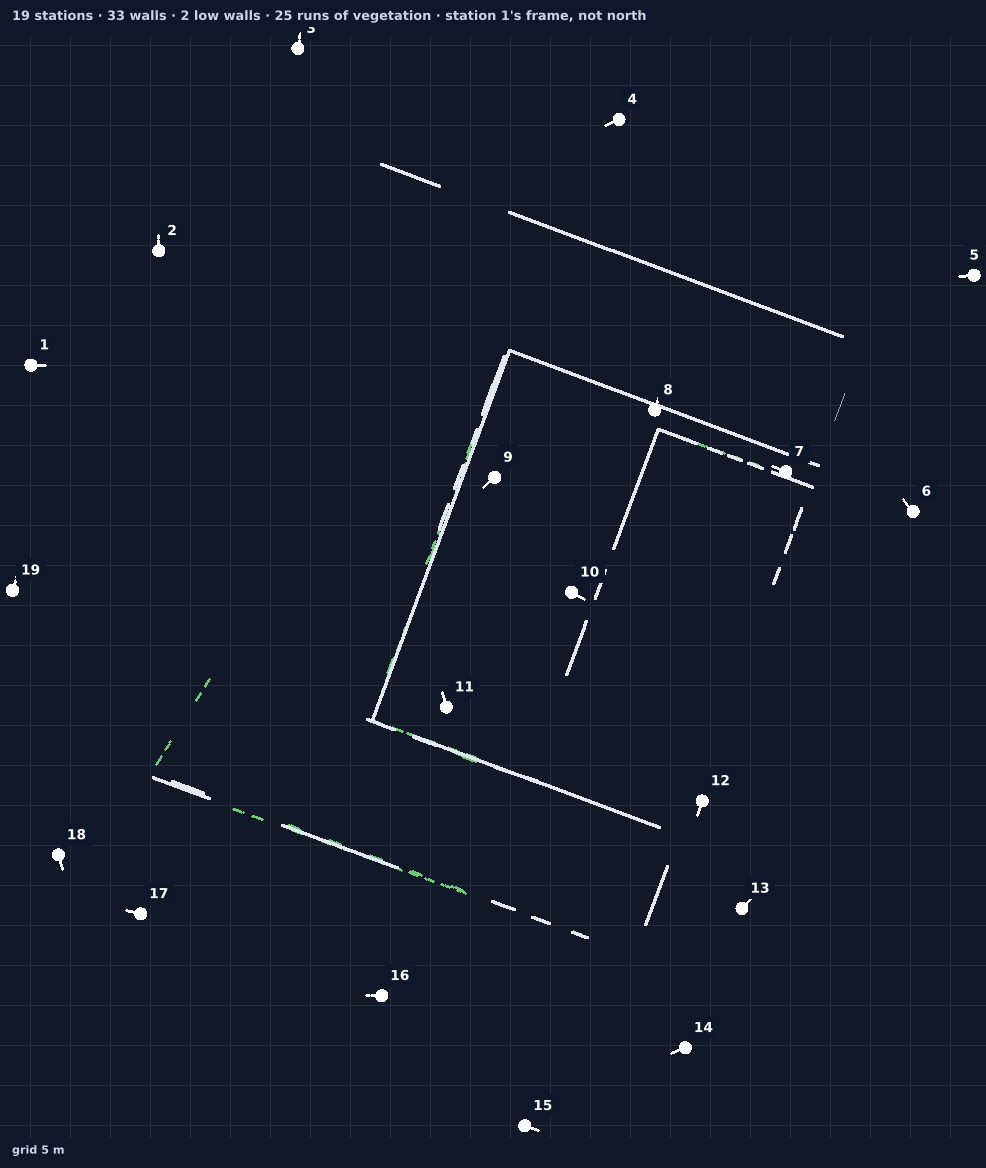
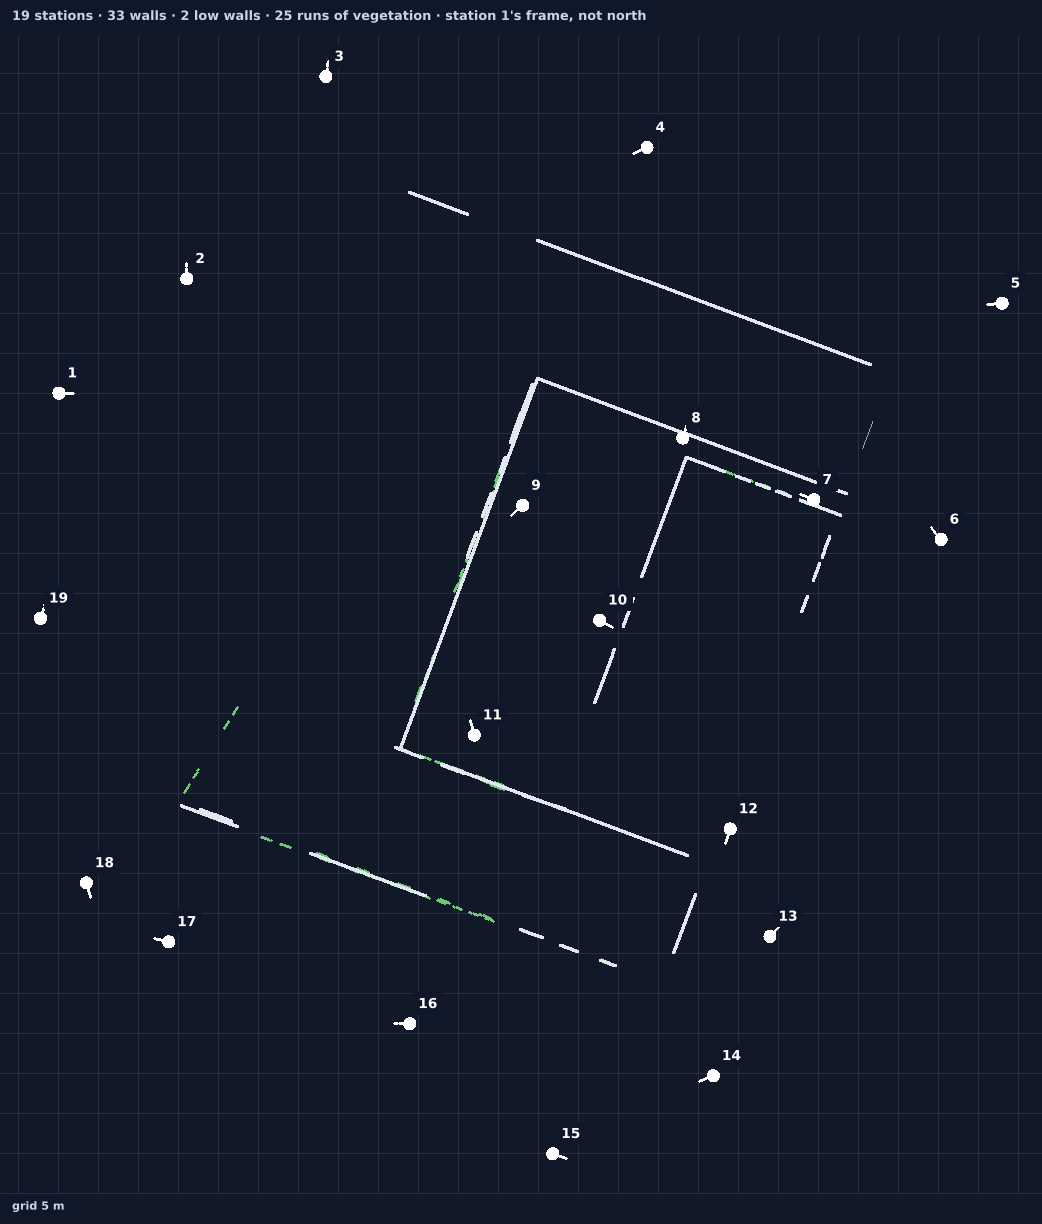
Minimap: keep station numbers inside the picture on large sites (0.12.2)
The margin around the drawing was a fixed 1.5 m. On a large site
(about 7 px/m) that is a dozen pixels, while a station number is drawn
28 px above its dot, so a station on the top edge lost its number. The
margin is now at least 40 px at any scale. New test:
labels_stay_inside_on_a_large_site (fails on the old layout).

The admin building minimap in docs/img is redrawn with the fix.

diff --git a/crates/x9-bridge/src/minimap.rs b/crates/x9-bridge/src/minimap.rs
@@ -102,9 +102,13 @@ impl Minimap {
         if pts.is_empty() {
             (x0, y0, x1, y1) = (-5.0, -5.0, 5.0, 5.0);
         }
-        let pad = 1.5;
+        // The margin is at least 1.5 m and at least MARGIN_PX, so a station's
+        // number (drawn above and right of its dot) stays inside the picture
+        // at any scale; on a large site 1.5 m is only a dozen pixels.
+        let span = (x1 - x0).max(y1 - y0);
+        let ppm = ((900.0 - 2.0 * MARGIN_PX) / span.max(1e-6)).clamp(8.0, 120.0);
+        let pad = (1.5f64).max(MARGIN_PX / ppm);
         let (x0, y0, x1, y1) = (x0 - pad, y0 - pad, x1 + pad, y1 + pad);
-        let ppm = (900.0 / (x1 - x0).max(y1 - y0)).clamp(8.0, 120.0);
         let grid = if (x1 - x0).max(y1 - y0) <= 25.0 { 1.0 } else { 5.0 };
         let top = 36.0;
         let w = ((x1 - x0) * ppm).ceil().max(420.0);
@@ -202,6 +206,9 @@ impl Minimap {
     }
 }
 
+/// Room around the drawing for station numbers and face labels, in pixels.
+const MARGIN_PX: f64 = 40.0;
+
 struct Layout {
     x0: f64,
     y1: f64,
@@ -287,6 +294,26 @@ mod tests {
         assert!(svg.contains(r#"stroke-dasharray="4 4""#), "vegetation is dashed");
         let png = m.png();
         assert_eq!(&png[1..4], b"PNG");
+    }
+
+    #[test]
+    fn labels_stay_inside_on_a_large_site() {
+        // 120 m across: at about 7 px/m a 1.5 m margin would be 10 px, and the
+        // top station's number (28 px above its dot) would be cut off.
+        let mut r = reg();
+        for (s, xy) in r.stations.iter_mut().zip([[0.0, 0.0], [120.0, 120.0]]) {
+            if let Some(p) = s.pose.as_mut() {
+                p.xyz_m = [xy[0], xy[1], 0.0];
+            }
+        }
+        let m = Minimap::new(Some(&r), vec![], &[], false);
+        let l = m.layout();
+        for (n, p, _) in &m.stations {
+            let (x, y) = l.px([p.xyz_m[0], p.xyz_m[1]]);
+            assert!(y - 30.0 >= l.top, "station {n}'s number is below the title band");
+            assert!(x + 40.0 <= l.w, "station {n}'s number fits on the right");
+            assert!(x - 16.0 >= 0.0 && y + 16.0 <= l.top + l.map_h, "station {n}'s dot and heading fit");
+        }
     }
 
     #[test]

diff --git a/ops/README.md b/ops/README.md
@@ -193,7 +193,7 @@ internet (a wheelhouse built elsewhere) and the launcher, which reads
   laptop whether to use it (`scanner_processing`); on a yes, on the laptop:
 
   ```bash
-  tag=v0.12.1; t=aarch64-apple-darwin      # x86_64-apple-darwin on Intel
+  tag=v0.12.2; t=aarch64-apple-darwin      # x86_64-apple-darwin on Intel
   f=trimble-x9-bridge-$tag-$t
   curl -LO https://github.com/northidaholabs/trimble-x9-bridge/releases/download/$tag/$f.tar.gz
   curl -LO https://github.com/northidaholabs/trimble-x9-bridge/releases/download/$tag/$f.tar.gz.sha256

diff --git a/docs/guide.md b/docs/guide.md
@@ -60,7 +60,7 @@ a `.sha256` file. It contains:
 | `README.md`, `PROVENANCE.md`, `LICENSE`, `NOTICE` | |
 
 ```bash
-tag=v0.12.1; target=aarch64-unknown-linux-gnu
+tag=v0.12.2; target=aarch64-unknown-linux-gnu
 curl -LO https://github.com/northidaholabs/trimble-x9-bridge/releases/download/$tag/trimble-x9-bridge-$tag-$target.tar.gz
 curl -LO https://github.com/northidaholabs/trimble-x9-bridge/releases/download/$tag/trimble-x9-bridge-$tag-$target.tar.gz.sha256
 sha256sum -c trimble-x9-bridge-$tag-$target.tar.gz.sha256

diff --git a/README.md b/README.md
@@ -161,7 +161,7 @@ tools, with previews returned as images and recipes as a prompt.
 
 ## Status
 
-Version 0.12.1: the API is a draft, tested against the simulator and on a real X9
+Version 0.12.2: the API is a draft, tested against the simulator and on a real X9
 (scans, measurements, multi-station registration, laptop workers). To build a
 field kit from a fresh Raspberry Pi, see [ops/README.md](ops/README.md).
 
